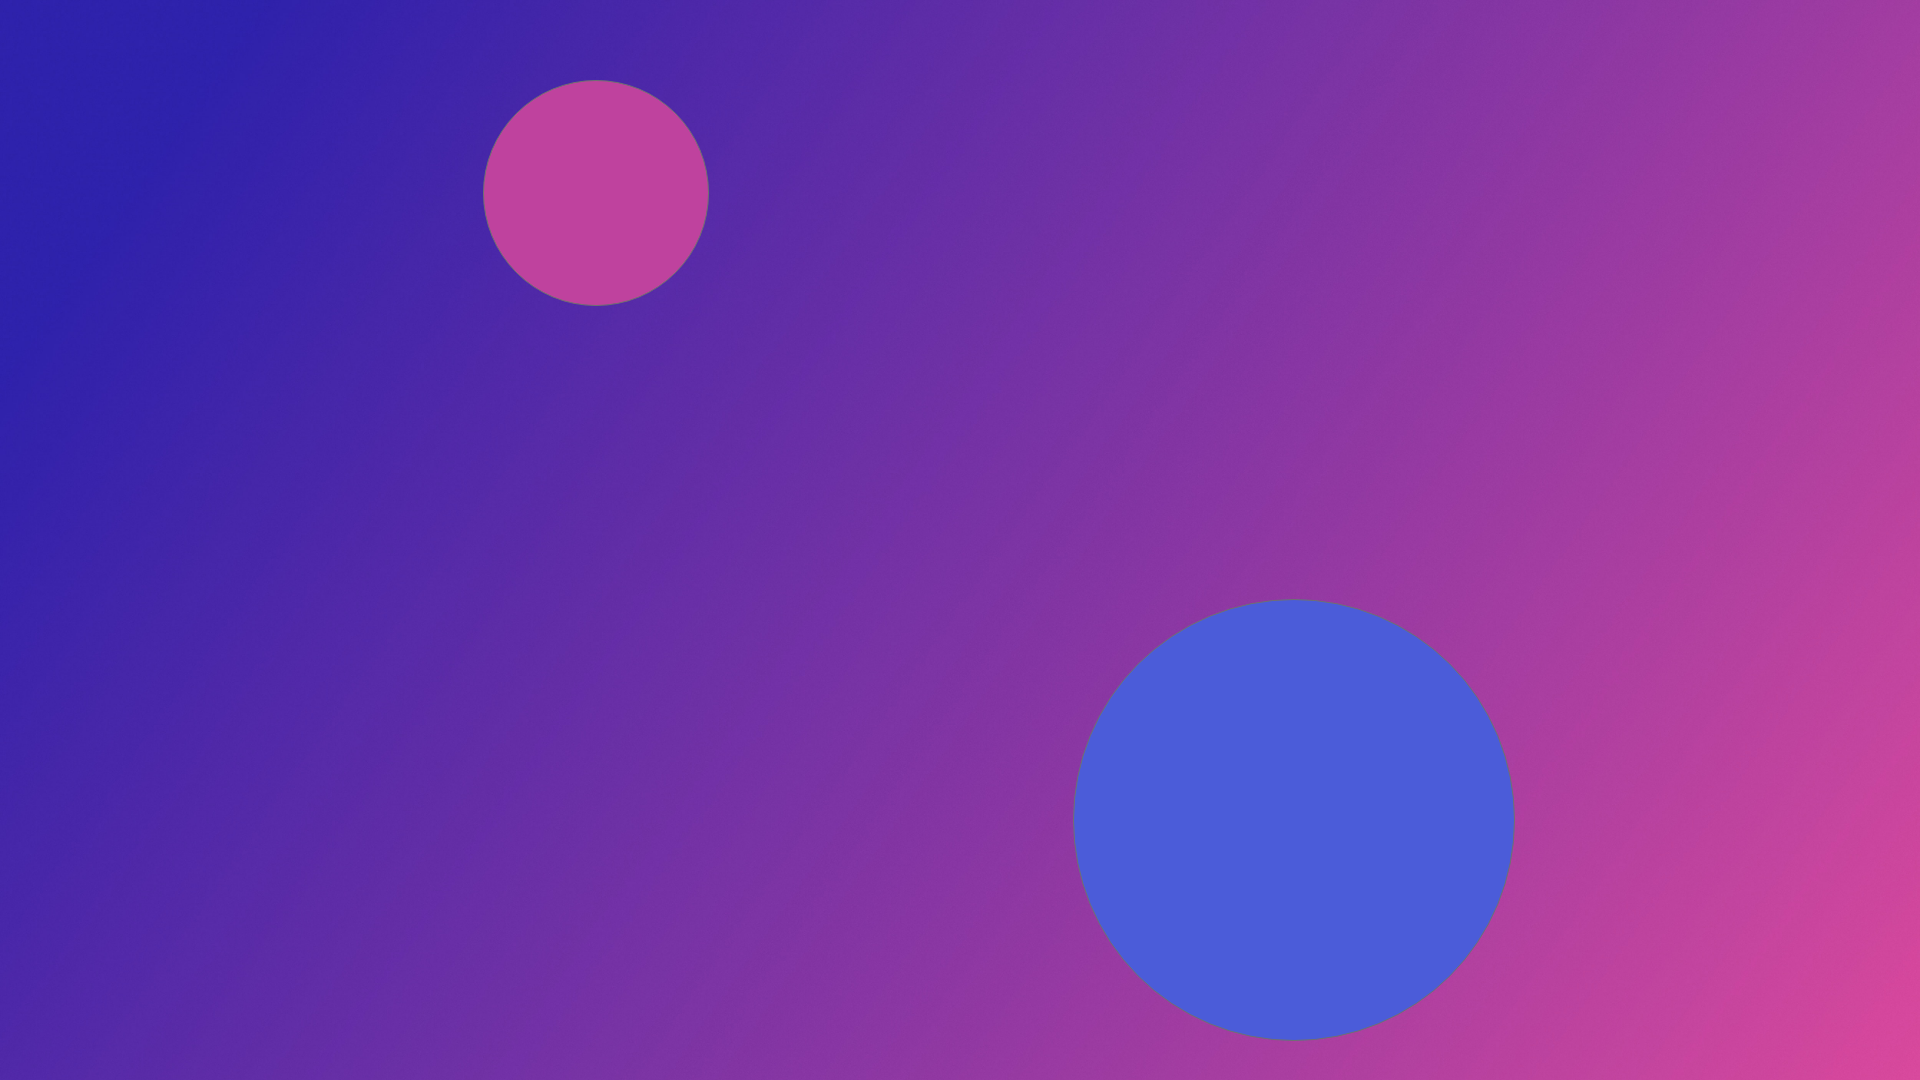
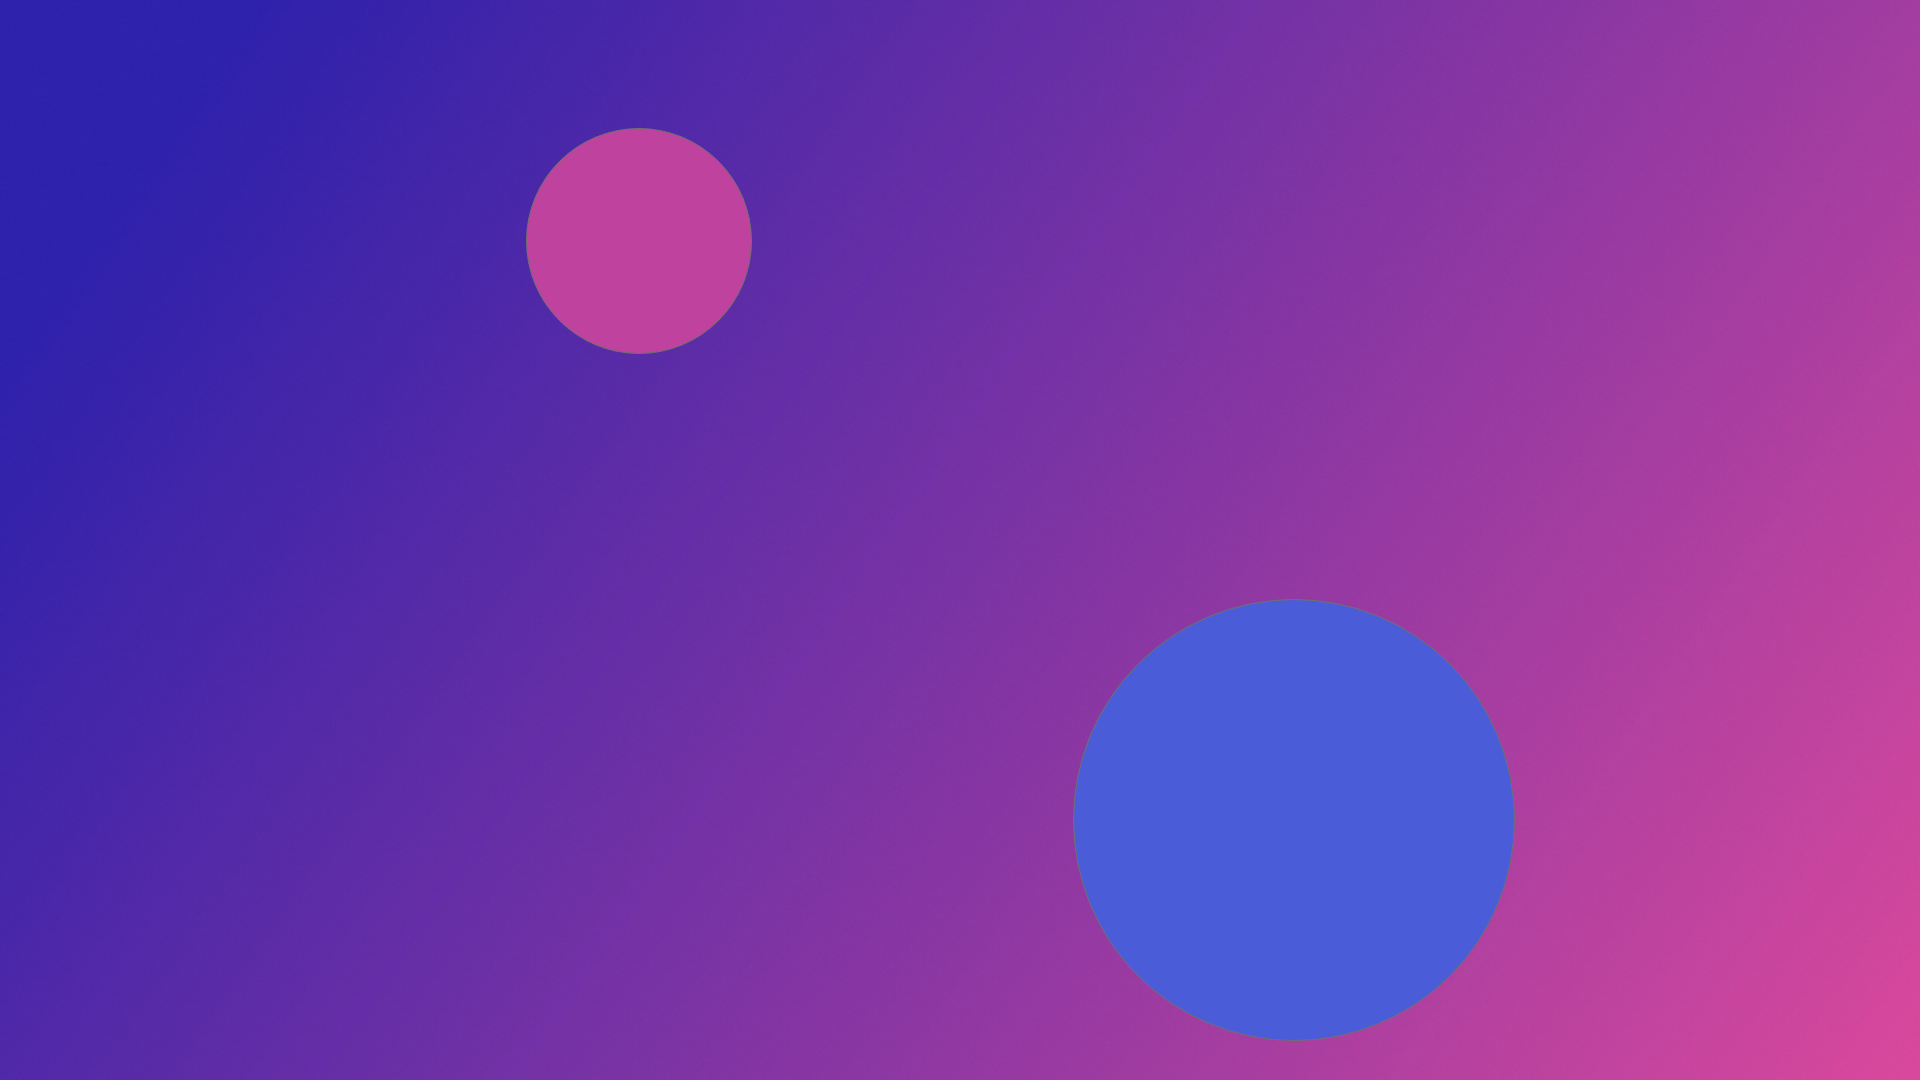
Feat(NumberGame) : change background image and fixed css code.

Changed region(s): [[0.25, 0.0611, 0.4062, 0.3361]]

diff --git a/style.css b/style.css
@@ -234,6 +234,7 @@ section {
     width: 60px;
     height: 60px;
     border: 6px solid rgba(214, 125, 252, 0.8);
+    border-radius: 50%;
   }
 
   .box div:nth-child(1) {
@@ -249,8 +250,8 @@ section {
   }
   
   .box div:nth-child(3) {
-    top: 17%;
-    left: 6%;
+    top: 60%;
+    left: 10%;
     animation: animate 9s linear infinite;
   }
   
@@ -262,7 +263,7 @@ section {
   
   .box div:nth-child(5) {
     top: 67%;
-    left: 10%;
+    left: 90%;
     animation: animate 6s linear infinite;
   }
   
@@ -271,31 +272,18 @@ section {
     left: 70%;
     animation: animate 12s linear infinite;
   }
-  
-  .box div:nth-child(7) {
-    top: 60%;
-    left: 80%;
-    animation: animate 15s linear infinite;
-  }
-  
-  .box div:nth-child(8) {
-    top: 32%;
-    left: 25%;
-    animation: animate 16s linear infinite;
-  }
-  
 
 }
 
 
 @keyframes animate {
   0%{
-    transform: scale(0) translateY(0) rotate(0);
+    transform: scale(0) translateY(0);
     opacity: 1;
   }
 
   100%{
-    transform: scale(1.3) translateY(-90px) rotate(360deg);
+    transform: scale(1.5) translateY(-90px);
     opacity: 0;
   }
   

diff --git a/index.html b/index.html
@@ -10,7 +10,6 @@
       type="text/css"
     />
     <link rel="stylesheet" href="style.css" />
-    <link rel="stylesheet" href="animation.css" />
     <title>Number Game</title>
   </head>
   <body>
@@ -44,10 +43,8 @@
       </a>
 
       <!-- animation -->
-      <div class="wrapper">
+      <div class="wrapper" aria-hidden="true">
         <div class="box">
-          <div></div>
-          <div></div>
           <div></div>
           <div></div>
           <div></div>
